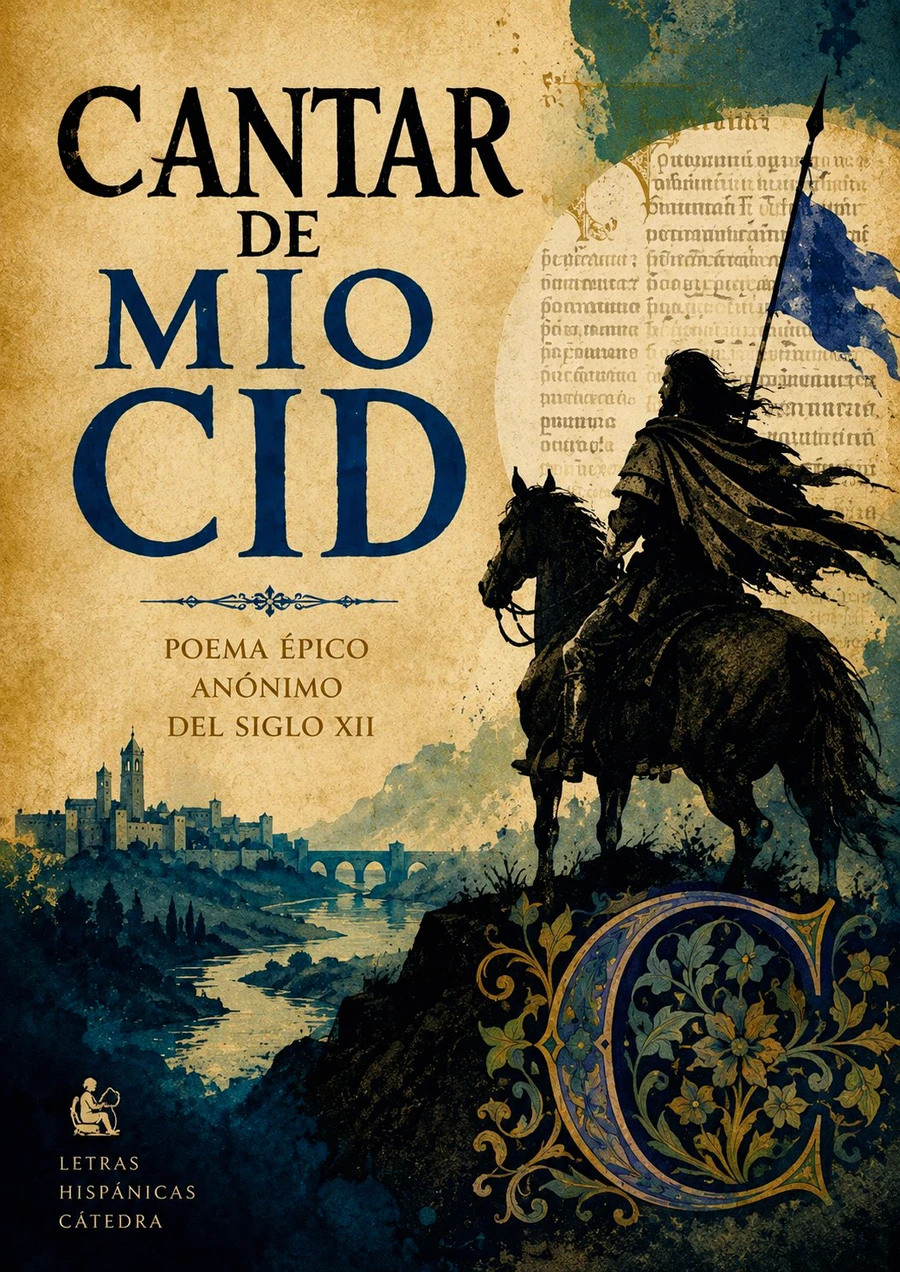
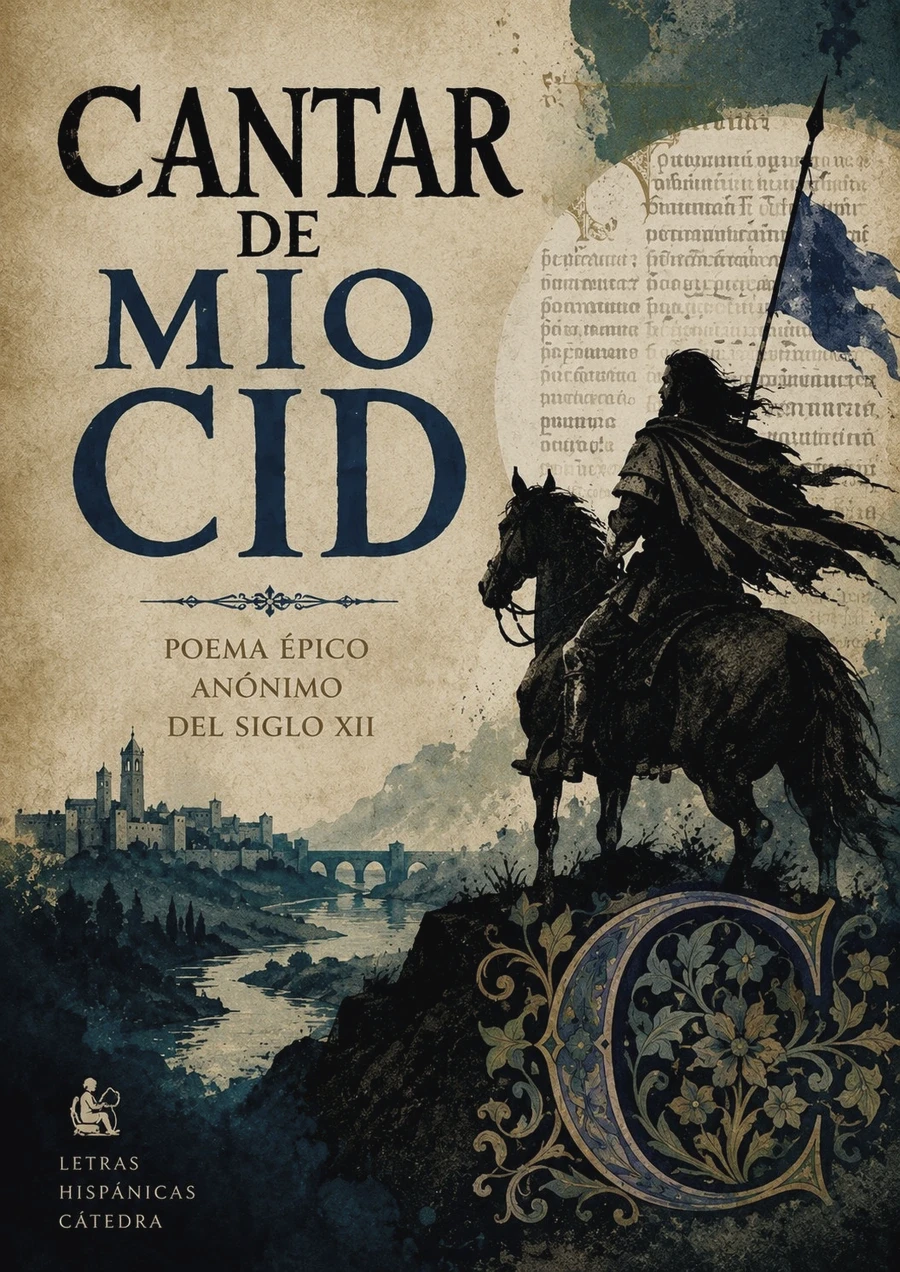
Finalize Cid cover art balance and cache-bust image URLs
Cosas del Cid is now visibly softened; Cantar de mio Cid restored from
baseline and finalized per direct review. Added ?v=2 to every reference
to these two images so the CDN/browser cache doesn't keep serving the
old bytes under the same filename.

diff --git a/book-catalog.js b/book-catalog.js
@@ -47,7 +47,7 @@
         { file: "contemporary_covers/pedro-paramo.webp", title: "Pedro Páramo", slug: "pedro-paramo" },
         { file: "coplas.webp", title: "Coplas por la muerte de su padre", slug: "coplas-por-la-muerte-de-su-padre" },
         { file: "cosante.webp", title: "Cosante", slug: "cosante" },
-        { file: "cosas-del-cid.webp", title: "Cosas del Cid", slug: "cosas-del-cid" },
+        { file: "cosas-del-cid.webp?v=2", title: "Cosas del Cid", slug: "cosas-del-cid" },
         { file: "cuento-x.webp", title: "Cuento X", slug: "cuento-x" },
         { file: "cuentos-de-decameron.webp", title: "Cuentos de Decamerón", slug: "cuentos-de-decameron" },
         { file: "del-rumor-cadencioso-de-la-onda.webp", title: "Del rumor cadencioso de la onda", slug: "del-rumor-cadencioso-de-la-onda" },
@@ -109,7 +109,7 @@
         { file: "mariana-pineda.webp", title: "Mariana Pineda", slug: "mariana-pineda" },
         { file: "mas-alla.webp", title: "Más allá", slug: "mas-alla" },
         { file: "mi-religion.webp", title: "Mi religión", slug: "mi-religion" },
-        { file: "mio-cid.webp", title: "Cantar de mio Cid", slug: "cantar-de-mio-cid" },
+        { file: "mio-cid.webp?v=2", title: "Cantar de mio Cid", slug: "cantar-de-mio-cid" },
         { file: "mira-el-paisaje-inmensidad-abajo.webp", title: "Mira el paisaje, inmensidad abajo", slug: "mira-el-paisaje-inmensidad-abajo" },
         { file: "misericordia.webp", title: "Misericordia", slug: "misericordia" },
         { file: "monja-alferez.webp", title: "Historia de la Monja Alférez", slug: "historia-de-la-monja-alferez" },

diff --git a/Audiolibros/titulos/ola-1-slug.html b/Audiolibros/titulos/ola-1-slug.html
@@ -88,7 +88,7 @@
         </div>
 
         <div class="book">
-            <div class="book-placeholder"><img class="book-cover" src="../../book_covers/mio-cid.webp" alt="Cantar de mio Cid"></div>
+            <div class="book-placeholder"><img class="book-cover" src="../../book_covers/mio-cid.webp?v=2" alt="Cantar de mio Cid"></div>
             <div class="book-info">
                 <h3>Cantar de mio Cid</h3>
                 <span class="rating orange">3.2/5 <span class="feather-tip"><img src="../../Images/quetzal-feather.svg" alt="Pluma de quetzal" class="rating-feather"></span></span>
@@ -101,7 +101,7 @@
         </div>
 
         <div class="book">
-            <div class="book-placeholder"><img loading="lazy" decoding="async" class="book-cover" src="../../book_covers/cosas-del-cid.webp" alt="Cosas del Cid"></div>
+            <div class="book-placeholder"><img loading="lazy" decoding="async" class="book-cover" src="../../book_covers/cosas-del-cid.webp?v=2" alt="Cosas del Cid"></div>
             <div class="book-info">
                 <h3>Cosas del Cid</h3>
                 <span class="rating green">4.3/5 <span class="feather-tip"><img src="../../Images/quetzal-feather.svg" alt="Pluma de quetzal" class="rating-feather"></span></span>

diff --git a/Audiolibros/titulos/cosas-del-cid.html b/Audiolibros/titulos/cosas-del-cid.html
@@ -95,7 +95,7 @@
         <svg class="x" style="width:24px;height:24px" viewBox="0 0 24 24">
             <path fill="white" d="M19,6.41L17.59,5L12,10.59L6.41,5L5,6.41L10.59,12L5,17.59L6.41,19L12,13.41L17.59,19L19,17.59L13.41,12L19,6.41Z" />
         </svg>
-        <img fetchpriority="high" decoding="async" src="../../book_covers/cosas-del-cid.webp" alt="Cosas del Cid">
+        <img fetchpriority="high" decoding="async" src="../../book_covers/cosas-del-cid.webp?v=2" alt="Cosas del Cid">
         <div class="controls">
             <div class="box">Escucha ahora</div>
         </div>

diff --git a/Audiolibros/titulos/cantar-de-mio-cid.html b/Audiolibros/titulos/cantar-de-mio-cid.html
@@ -105,7 +105,7 @@
         <svg class="x" style="width:24px;height:24px" viewBox="0 0 24 24">
             <path fill="white" d="M19,6.41L17.59,5L12,10.59L6.41,5L5,6.41L10.59,12L5,17.59L6.41,19L12,13.41L17.59,19L19,17.59L13.41,12L19,6.41Z" />
         </svg>
-        <img fetchpriority="high" decoding="async" src="../../book_covers/mio-cid.webp" alt="Cantar de mio Cid">
+        <img fetchpriority="high" decoding="async" src="../../book_covers/mio-cid.webp?v=2" alt="Cantar de mio Cid">
         <div class="controls">
             <div class="box">Escucha ahora</div>
         </div>
